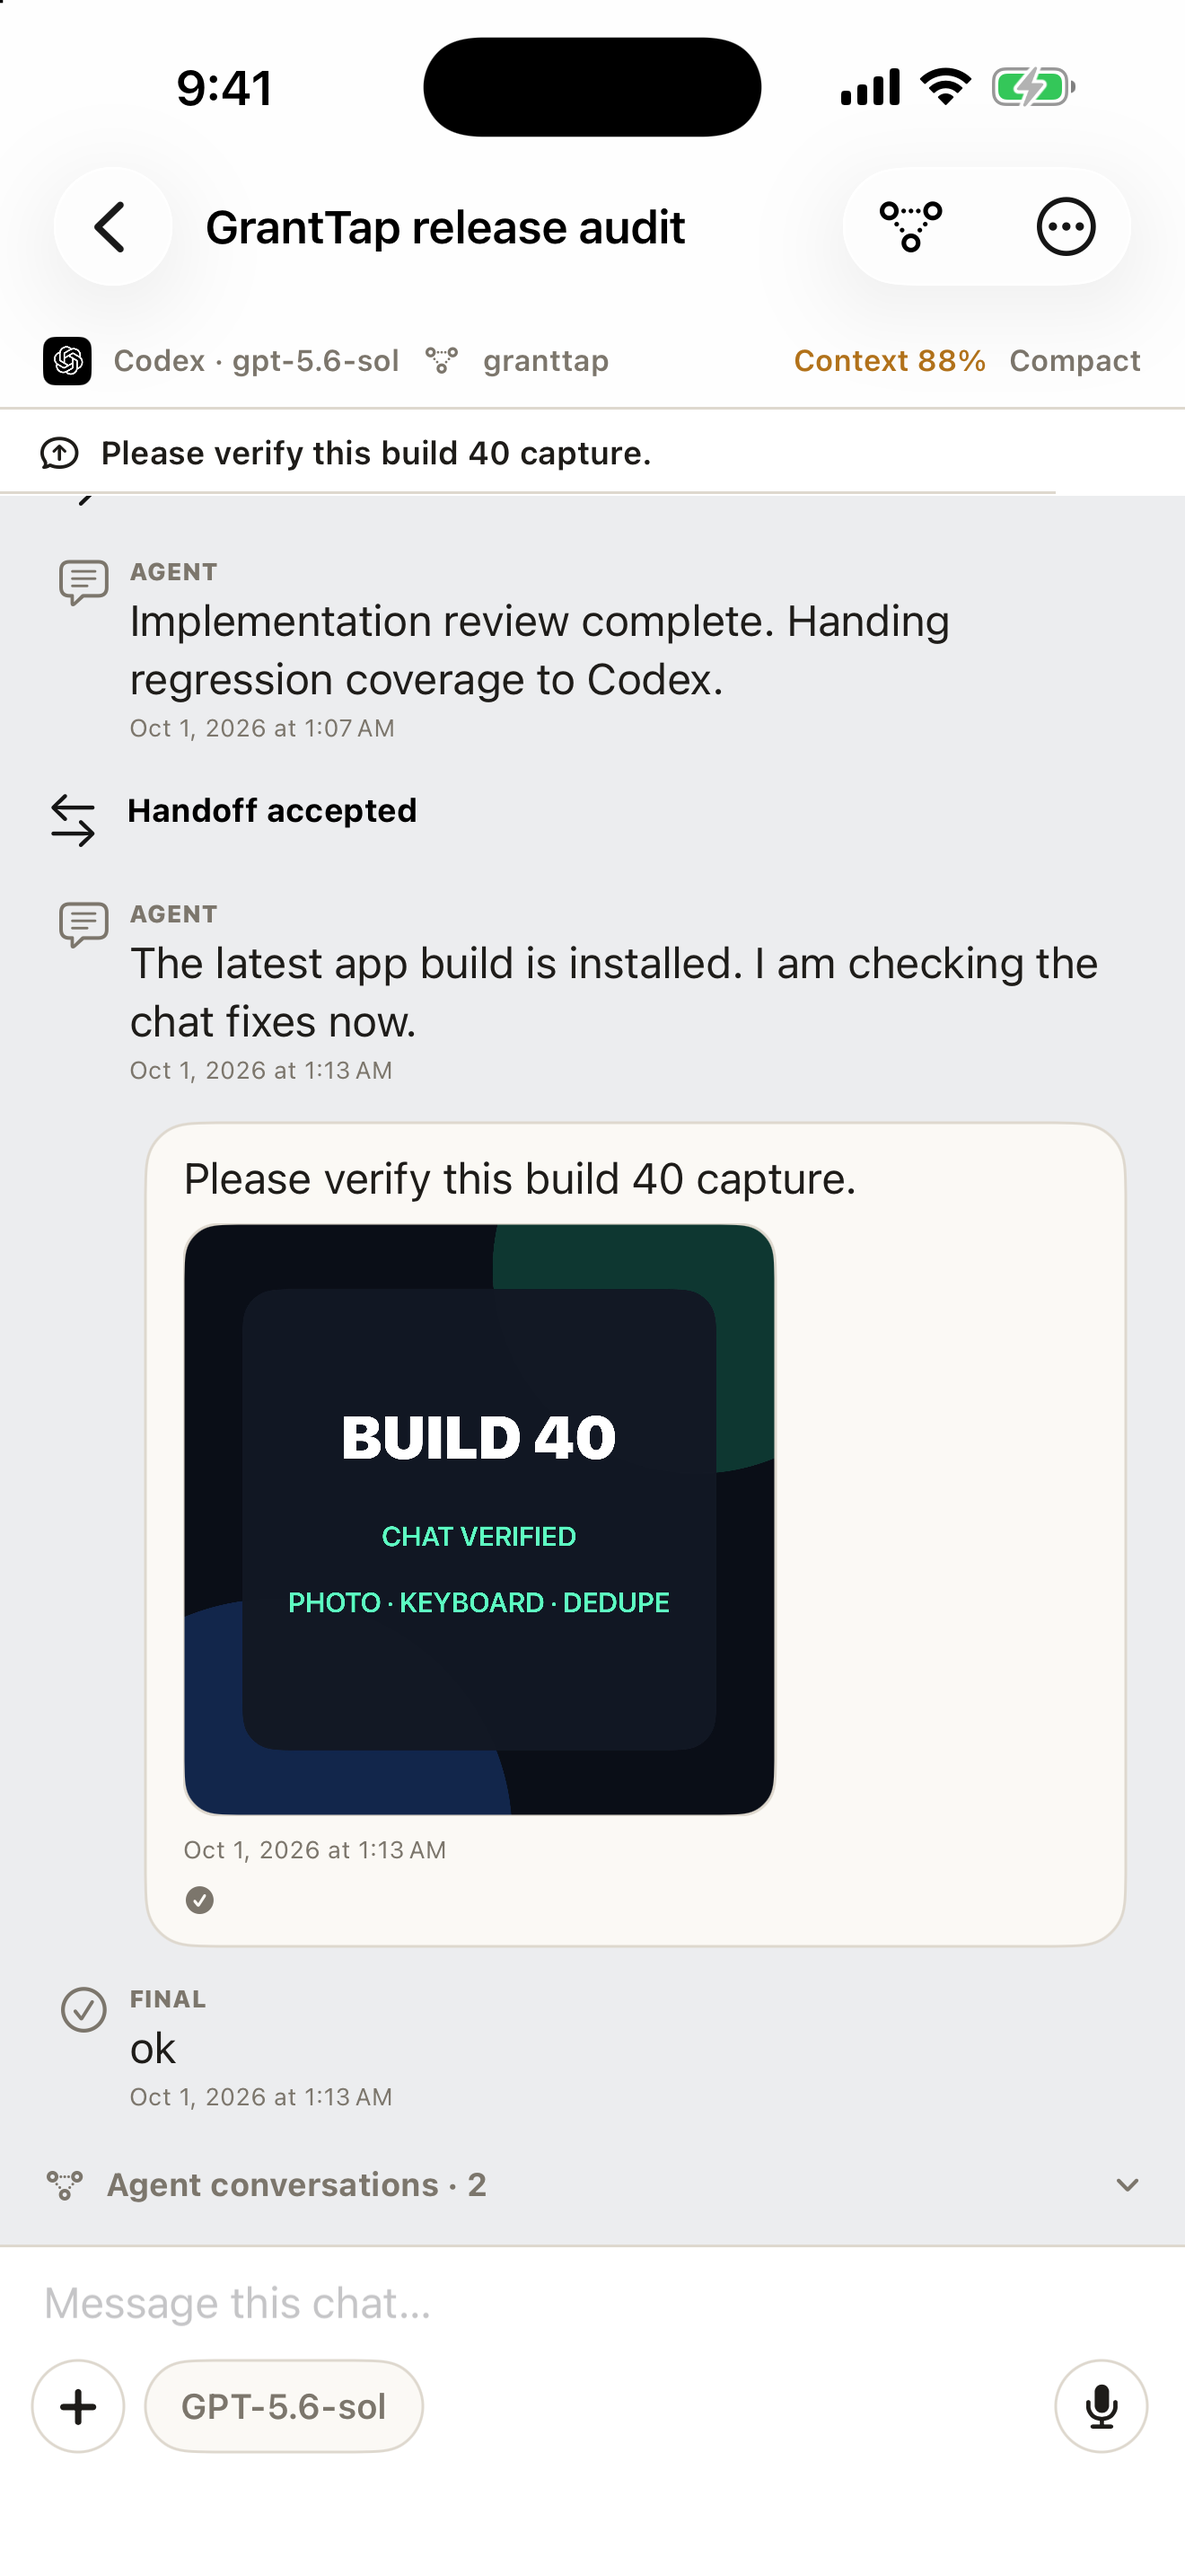
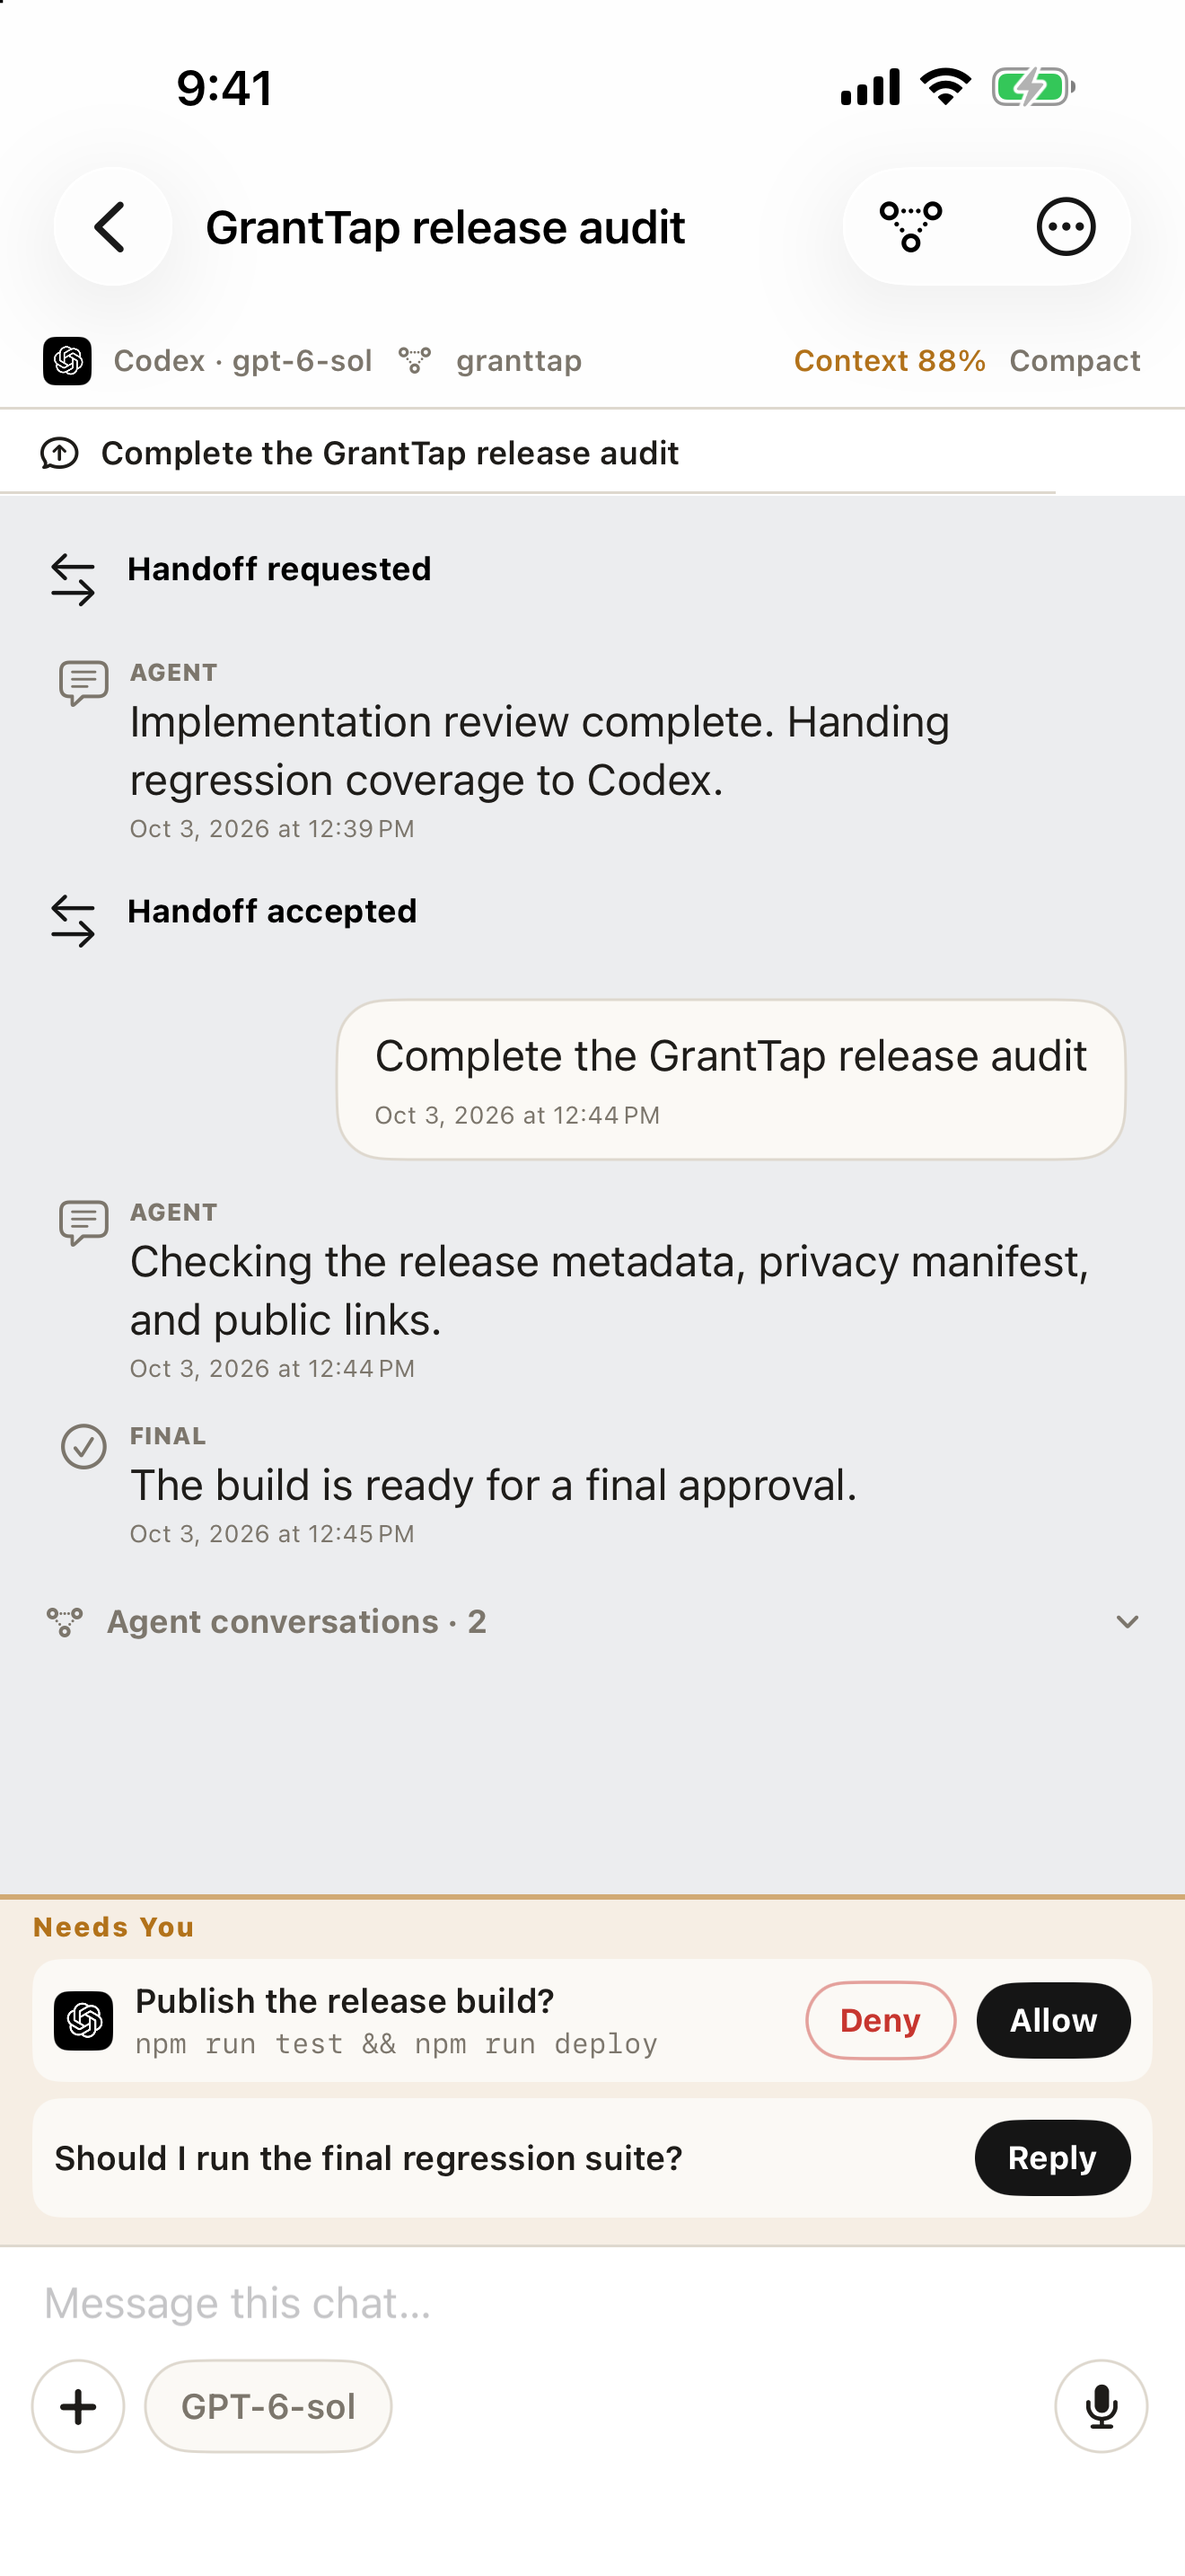
Show the latest user request in site chat capture

diff --git a/app/components/ProductImage.tsx b/app/components/ProductImage.tsx
@@ -1,6 +1,6 @@
 import Image from "next/image";
 
-const capture = (name: string) => `/product/${name}.png?v=20261001-1`;
+const capture = (name: string) => `/product/${name}.png?v=20261003-1`;
 
 export function ProductImage({
   name,

diff --git a/README.md b/README.md
@@ -127,8 +127,9 @@ device-scoped invite copy; it does not claim a Weavatrix dependency was observed
 attachments from deterministic architecture and code-map fixtures. Their
 `demo-revision` label is deliberate; neither depicts a live repository scan.
 The updated `iphone-command-center.png`, `iphone-tasks.png`, `iphone-chat.png`,
-`iphone-mcp-usage.png`, and `iphone-project-mesh.png` are current 2026-10-01
-iPhone Simulator captures. The site references them with a versioned URL to
+`iphone-mcp-usage.png`, and `iphone-project-mesh.png` are current iPhone
+Simulator captures. The chat capture was refreshed on 2026-10-03 to show the
+user's last request above the timeline. The site references them with a versioned URL to
 invalidate browser caches after deployment.
 
 ## Current captures
